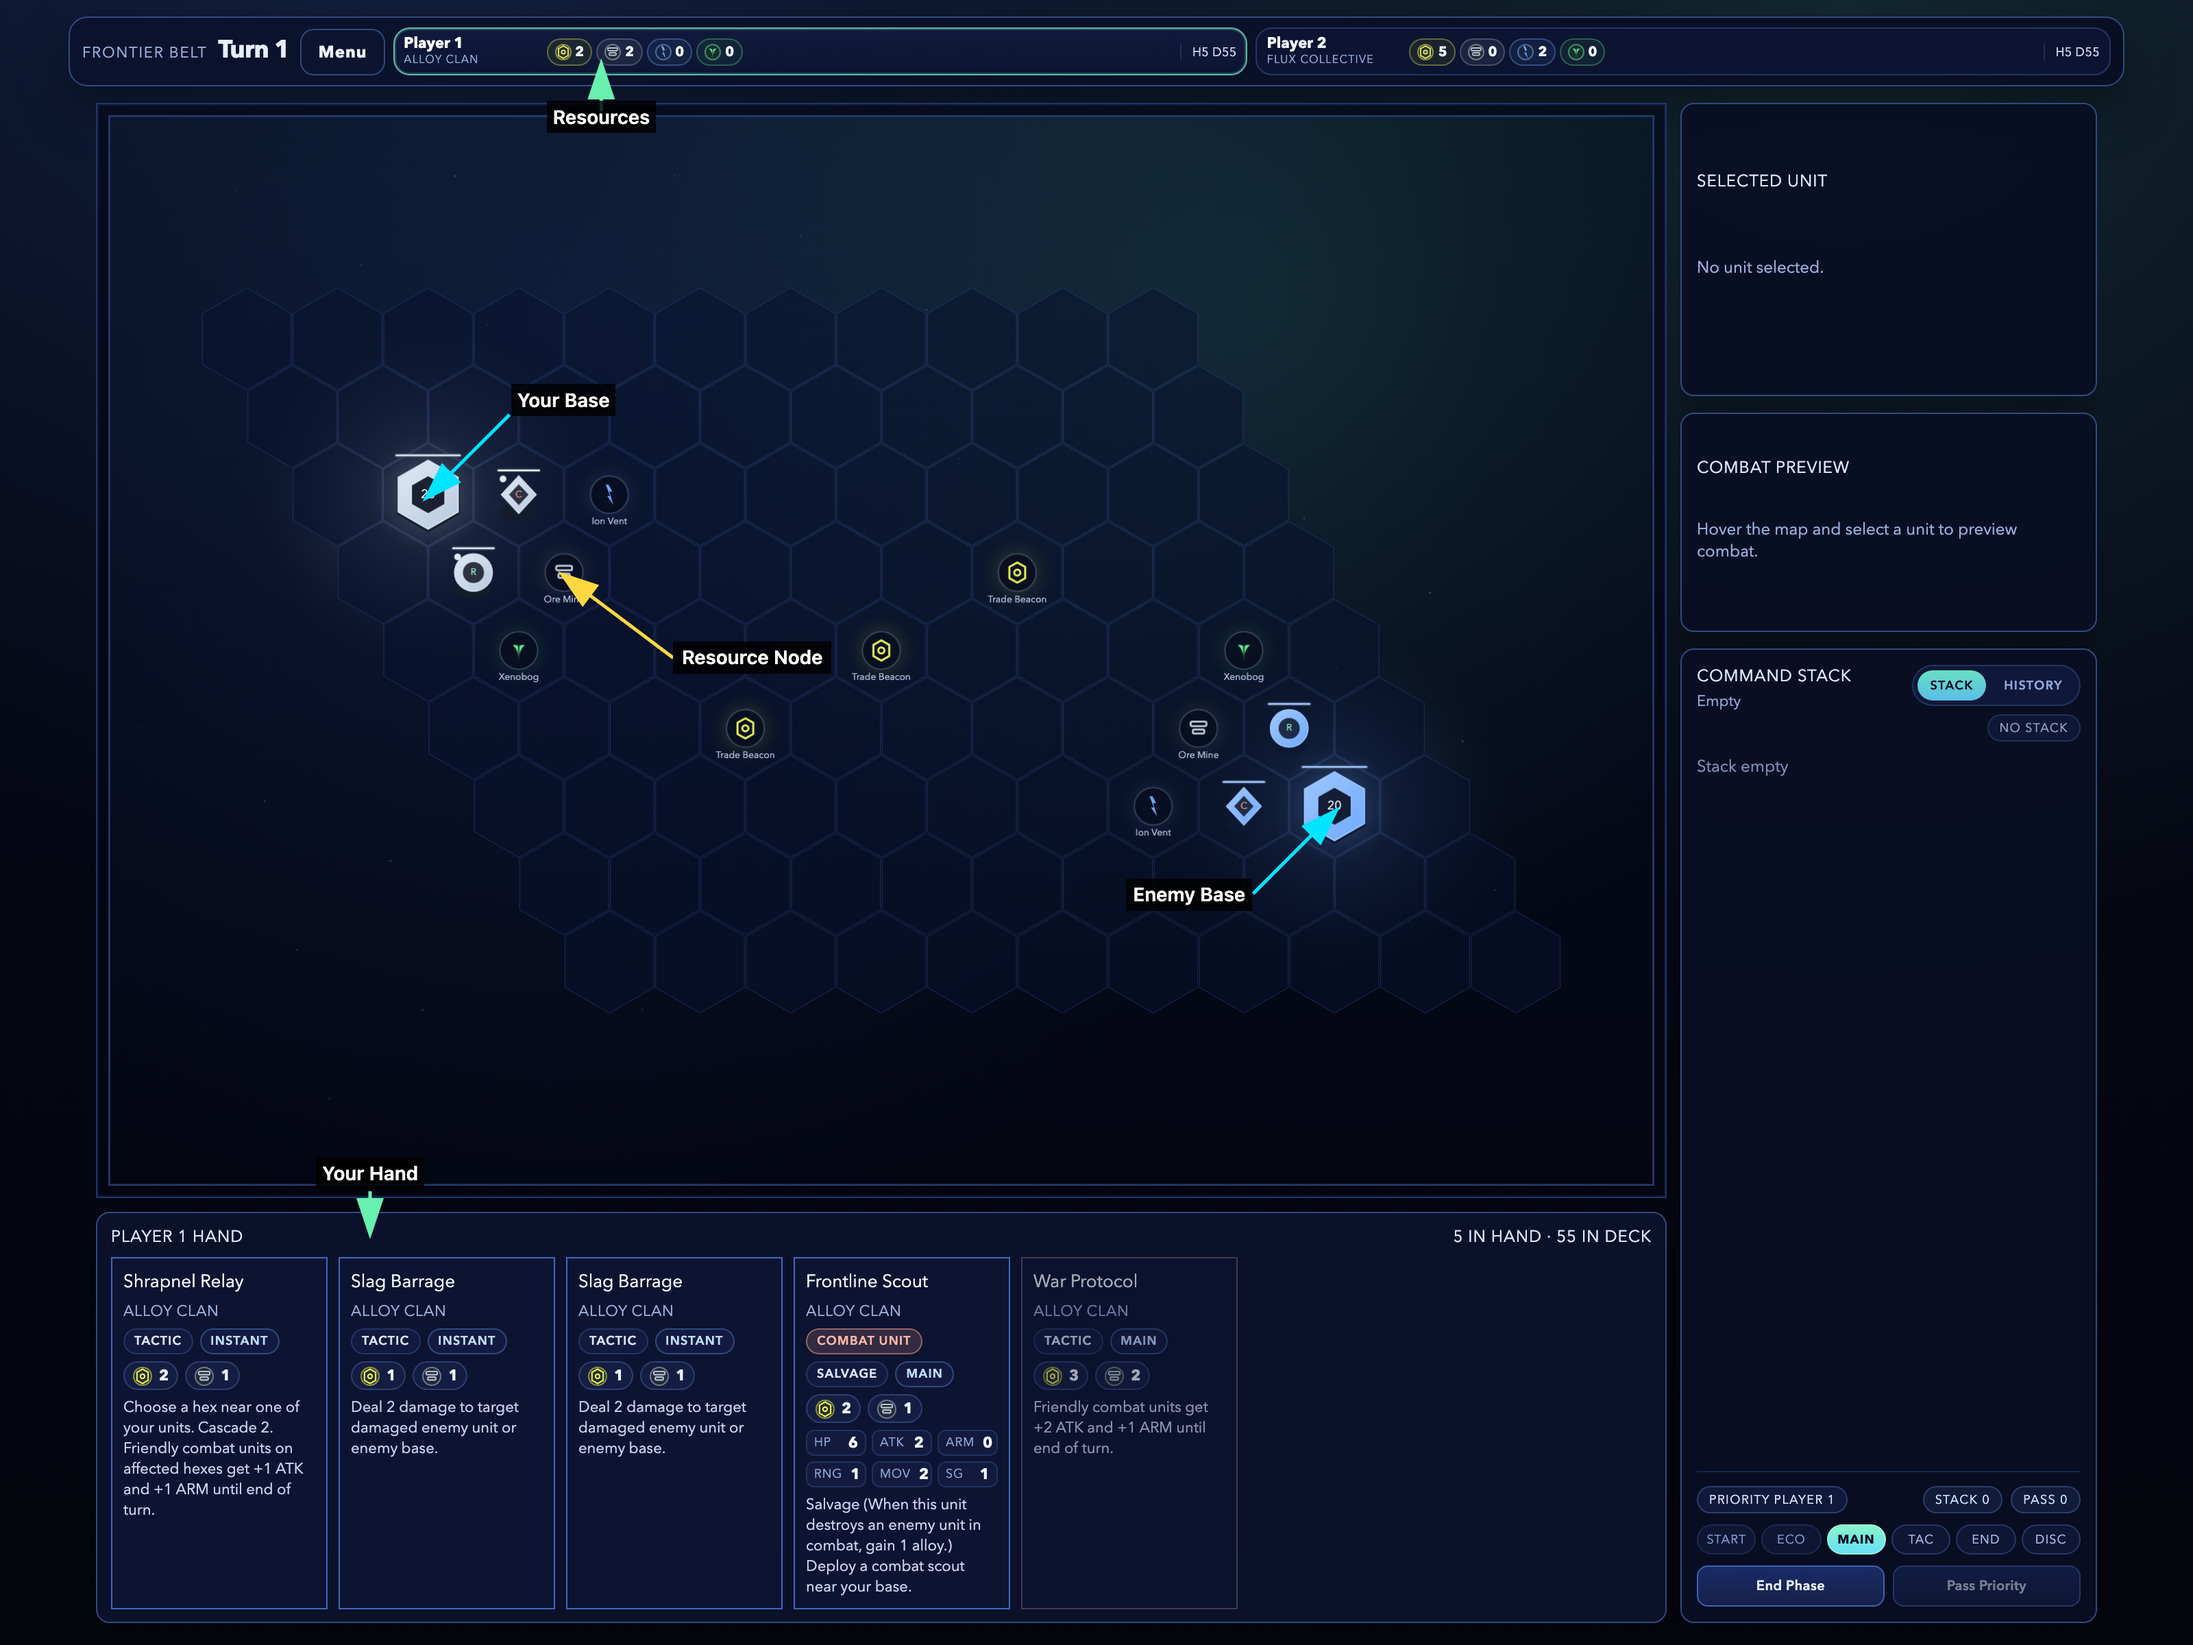
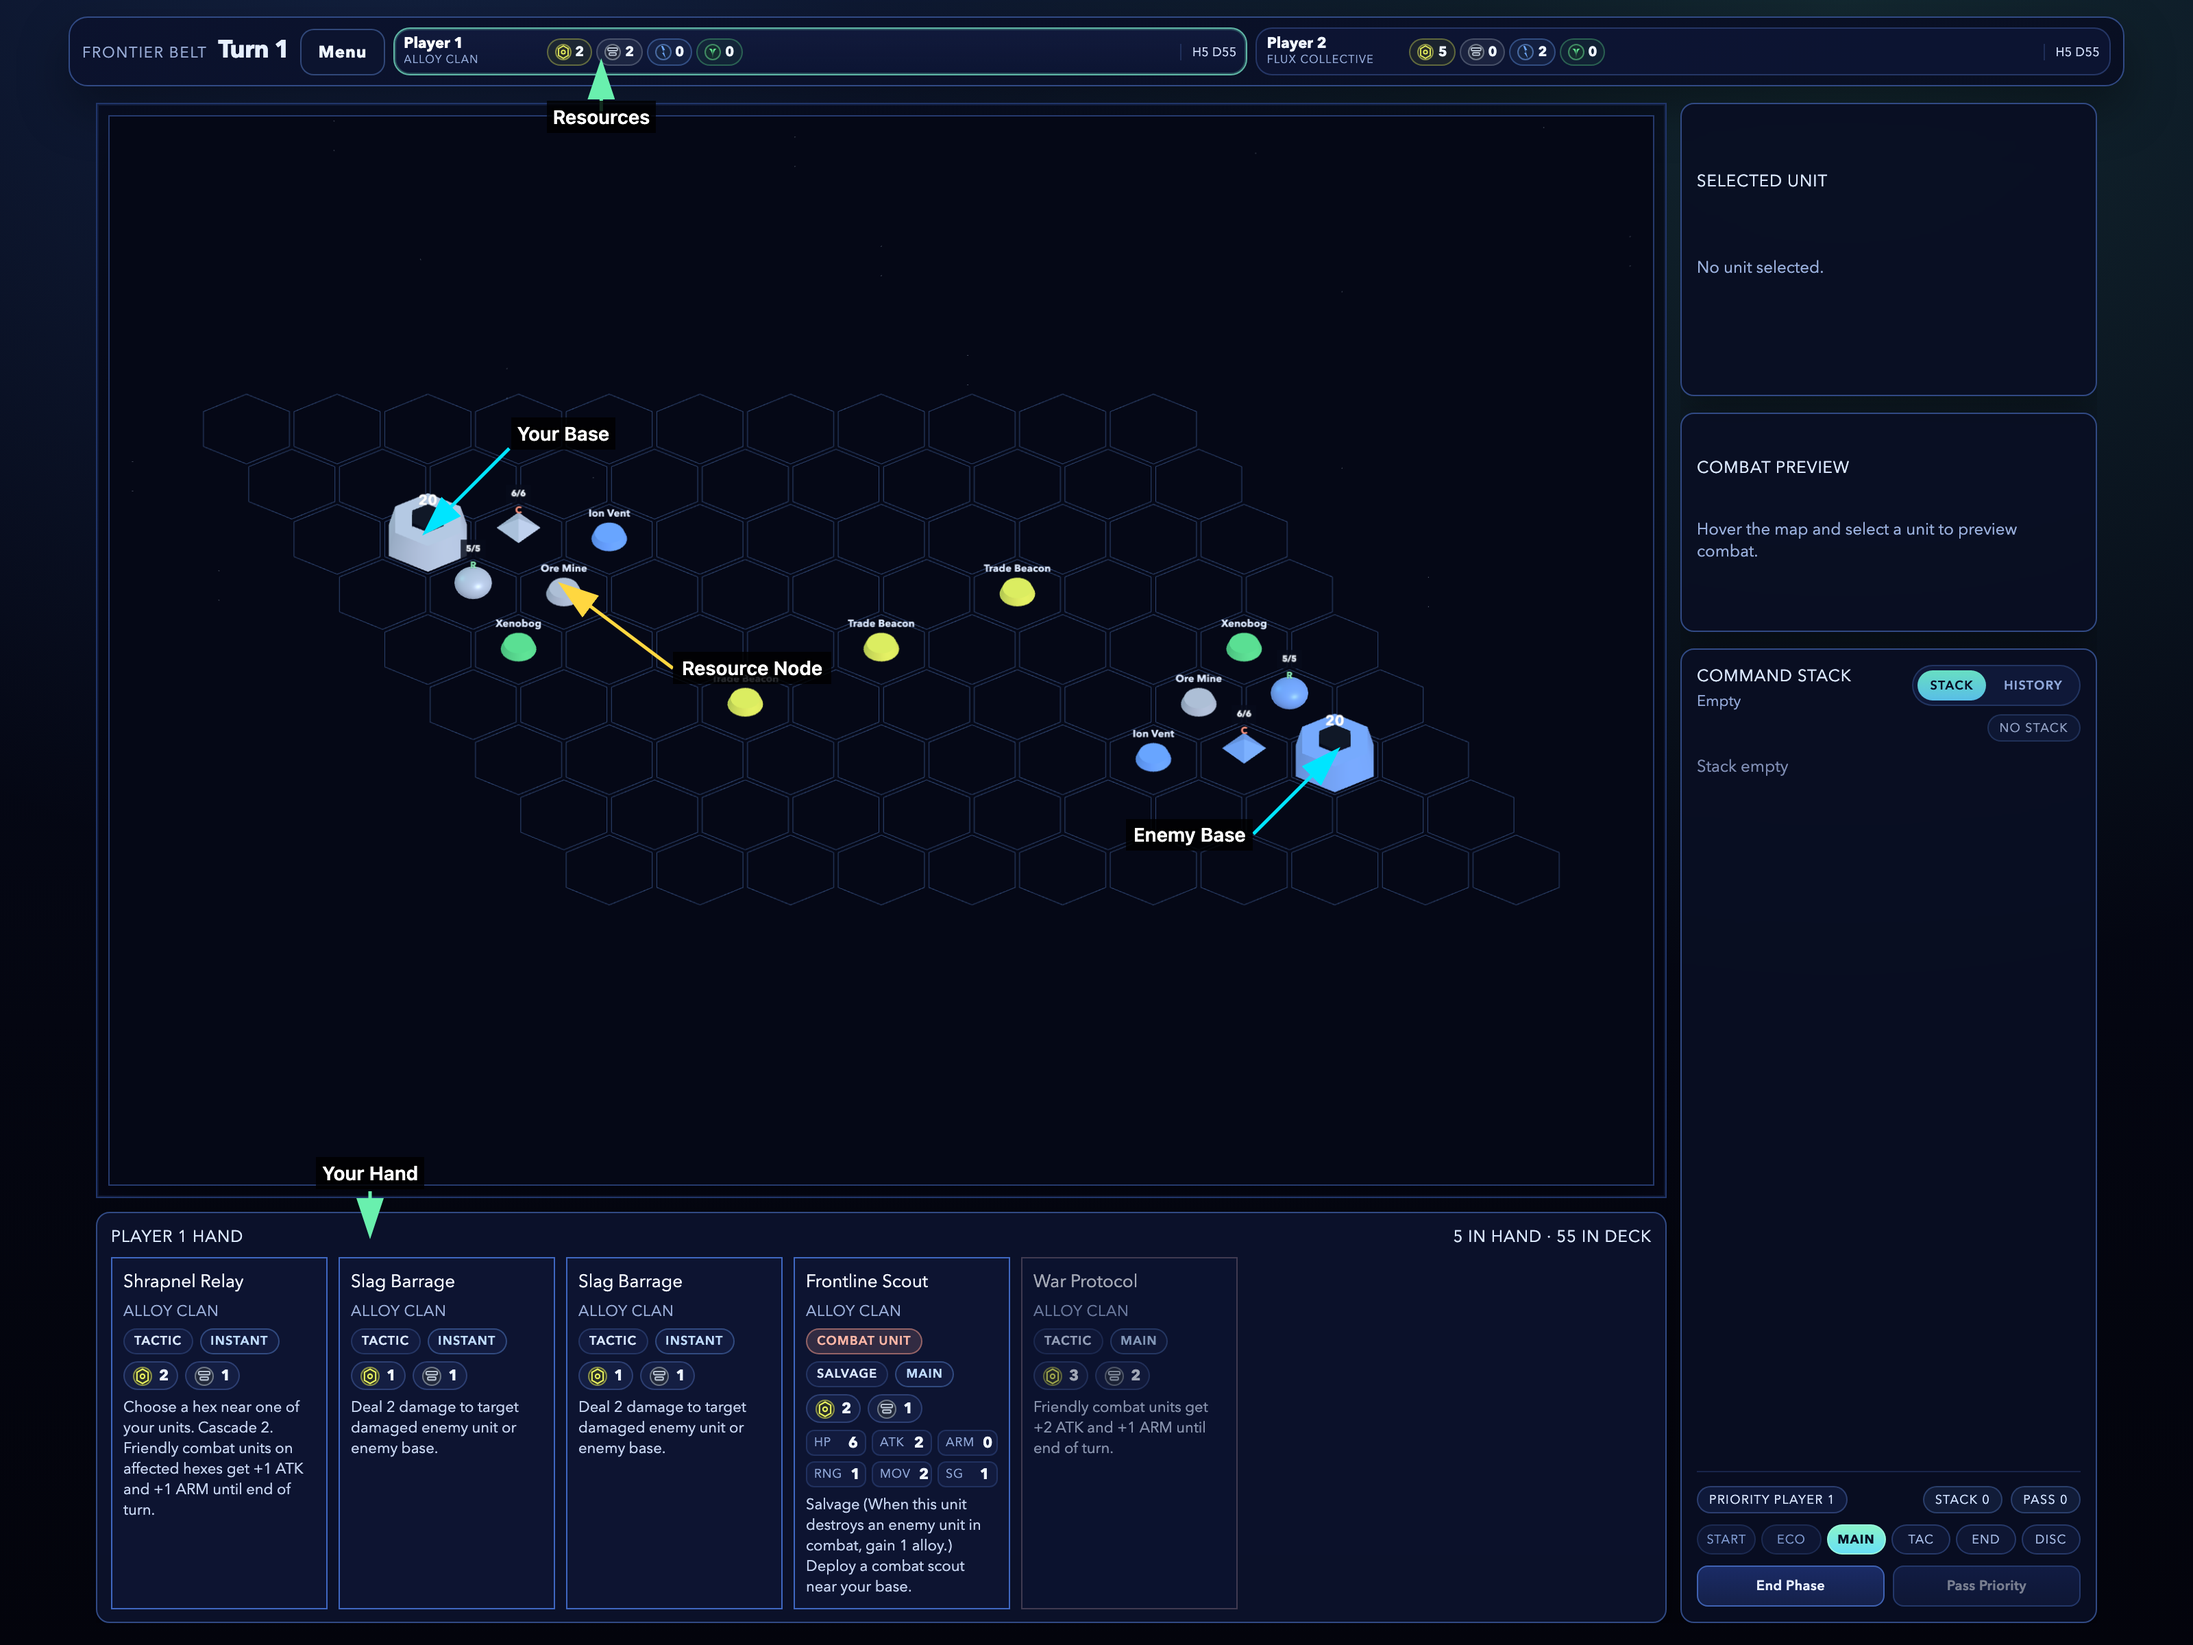
update screenshot script to use new 3d canvas

diff --git a/scripts/capture-introduction-screenshots.ts b/scripts/capture-introduction-screenshots.ts
@@ -2,8 +2,10 @@
  * Captures annotated screenshots for the Space Trader introduction tutorial.
  *
  * Prerequisites:
- *   1. Start the dev server in screenshot mode:
+ *   1. Start the dev server in screenshot mode. The default renderer is the
+ *      Three.js board; use VITE_RENDERER=three explicitly if needed:
  *      npm run dev:screenshots
+ *      VITE_RENDERER=three npm run dev:screenshots
  *   2. Run: npx tsx scripts/capture-introduction-screenshots.ts
  *
  * The game runtime is exposed on `window.__gameRuntime` in dev mode
@@ -49,7 +51,9 @@ type Annotation = {
 
 /**
  * Batch-converts hex coordinates to CSS page pixel positions using the actual
- * game layout modules via dynamic import inside the browser context.
+ * Three.js board layout and camera math via dynamic import inside the browser
+ * context. The tutorial screenshots point arrows at the rendered 3D board, not
+ * the legacy 2D canvas projection.
  */
 async function hexToPagePixels(
   page: Page,
@@ -60,17 +64,30 @@ async function hexToPagePixels(
     const canvas = document.querySelector("canvas")!;
     const rect = canvas.getBoundingClientRect();
 
-    const { getHexMetrics } = await import("../src/game/render/layout.ts");
-    const { axialToPixel } = await import("../src/game/model/hex.ts");
+    const { getThreeCameraLayout, hexToWorldPoint } = await import("../src/game/render3d/layout3d.ts");
 
-    const metrics = getHexMetrics(runtime.viewport, runtime.state.map);
-    const cssScale = rect.width / canvas.width;
+    const layout = getThreeCameraLayout(runtime.state.map, runtime.viewport);
+    const cameraRightAxis = { x: 1, y: 0, z: 0 };
+    const cameraUpAxis = {
+      x: 0,
+      y: Math.SQRT1_2,
+      z: -Math.SQRT1_2,
+    };
 
     return coords.map((c: { q: number; r: number }) => {
-      const px = axialToPixel(c, metrics.origin, metrics.size);
+      const world = hexToWorldPoint(c, 0.25);
+      const relative = {
+        x: world.x - layout.position.x,
+        y: world.y - layout.position.y,
+        z: world.z - layout.position.z,
+      };
+      const cameraX = relative.x * cameraRightAxis.x + relative.y * cameraRightAxis.y + relative.z * cameraRightAxis.z;
+      const cameraY = relative.x * cameraUpAxis.x + relative.y * cameraUpAxis.y + relative.z * cameraUpAxis.z;
+      const ndcX = ((cameraX - layout.left) / (layout.right - layout.left)) * 2 - 1;
+      const ndcY = ((cameraY - layout.bottom) / (layout.top - layout.bottom)) * 2 - 1;
       return {
-        x: rect.left + px.x * cssScale,
-        y: rect.top + px.y * cssScale,
+        x: rect.left + ((ndcX + 1) / 2) * rect.width,
+        y: rect.top + ((1 - ndcY) / 2) * rect.height,
       };
     });
   }, coords);

diff --git a/src/game/render3d/layout3d.ts b/src/game/render3d/layout3d.ts
@@ -1,0 +1,75 @@
+import { getPlayableHexes } from "../model/hex";
+import type { HexCoord, MapState } from "../model/state";
+import type { GameViewport } from "../types";
+
+export const THREE_HEX_RADIUS = 1;
+const SQRT3 = Math.sqrt(3);
+
+export type WorldPoint3D = {
+  x: number;
+  y: number;
+  z: number;
+};
+
+export type ThreeCameraLayout = {
+  center: WorldPoint3D;
+  position: WorldPoint3D;
+  left: number;
+  right: number;
+  top: number;
+  bottom: number;
+};
+
+export function hexToWorldPoint(coord: HexCoord, y = 0): WorldPoint3D {
+  return {
+    x: THREE_HEX_RADIUS * SQRT3 * (coord.q + coord.r / 2),
+    y,
+    z: THREE_HEX_RADIUS * 1.5 * coord.r,
+  };
+}
+
+export function getThreeCameraLayout(map: MapState, viewport: GameViewport): ThreeCameraLayout {
+  let minX = Number.POSITIVE_INFINITY;
+  let maxX = Number.NEGATIVE_INFINITY;
+  let minZ = Number.POSITIVE_INFINITY;
+  let maxZ = Number.NEGATIVE_INFINITY;
+
+  for (const coord of getPlayableHexes(map)) {
+    const point = hexToWorldPoint(coord);
+    minX = Math.min(minX, point.x);
+    maxX = Math.max(maxX, point.x);
+    minZ = Math.min(minZ, point.z);
+    maxZ = Math.max(maxZ, point.z);
+  }
+
+  if (!Number.isFinite(minX) || !Number.isFinite(maxX) || !Number.isFinite(minZ) || !Number.isFinite(maxZ)) {
+    minX = -1;
+    maxX = 1;
+    minZ = -1;
+    maxZ = 1;
+  }
+
+  const center = {
+    x: (minX + maxX) / 2,
+    y: 0,
+    z: (minZ + maxZ) / 2,
+  };
+  const halfWidth = Math.max(1, (maxX - minX) / 2);
+  const halfDepth = Math.max(1, (maxZ - minZ) / 2);
+  const aspect = viewport.width / Math.max(1, viewport.height);
+  const verticalSize = Math.max(3.6, halfDepth * 1.18 + 1.3, (halfWidth * 1.1 + 1.4) / aspect);
+  const horizontalSize = verticalSize * aspect;
+
+  return {
+    center,
+    position: {
+      x: center.x,
+      y: 8.5,
+      z: center.z + 8.5,
+    },
+    left: -horizontalSize,
+    right: horizontalSize,
+    top: verticalSize,
+    bottom: -verticalSize,
+  };
+}
